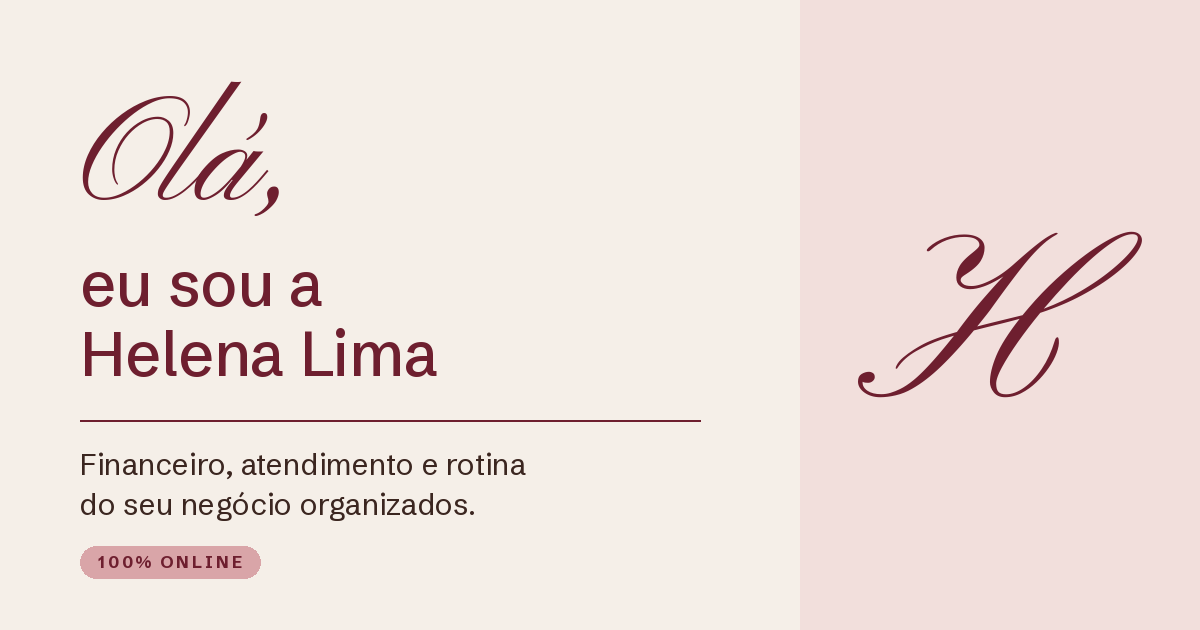
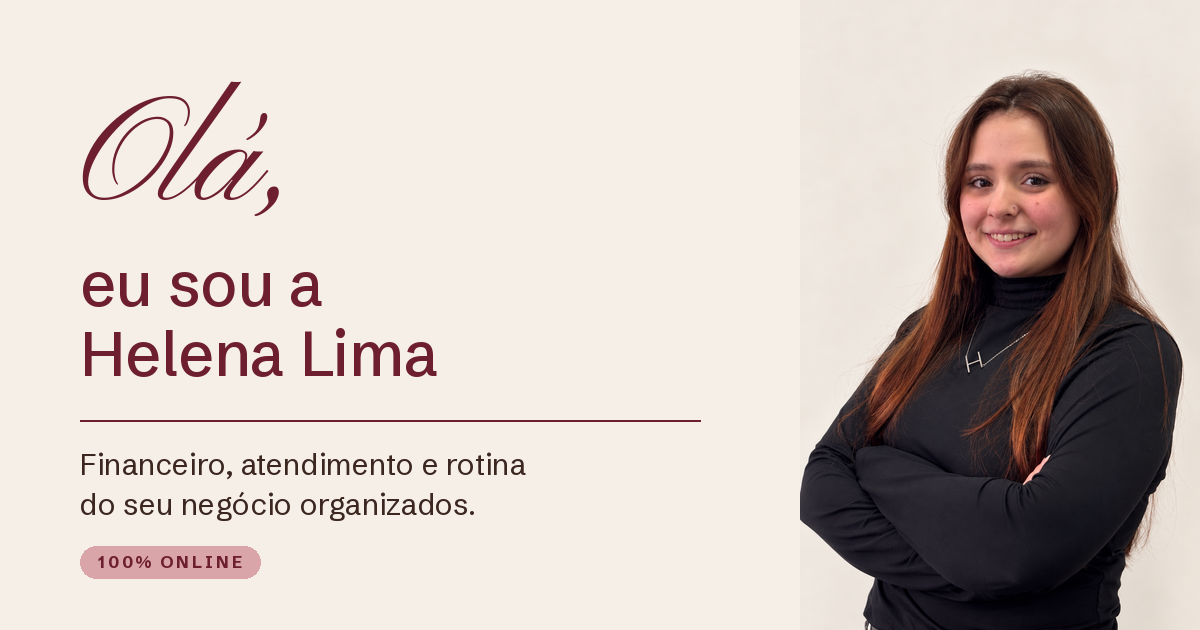
Fotos reais da Helena no hero, no Sobre e na og-image

Changed region(s): [[0.6475, 0.1206, 0.9867, 1.0]]

diff --git a/src/components/Hero.tsx b/src/components/Hero.tsx
@@ -35,12 +35,18 @@ export default function Hero() {
           </a>
         </div>
       </div>
-      <div className="md:flex-1 w-full max-w-[min(28rem,56vh)] mx-auto aspect-[4/5] bg-rosa/30 rounded-2xl flex items-center justify-center border-[1.5px] border-bordo border-dashed overflow-hidden reveal reveal-delay-1">
-        {/* Placeholder image block */}
-        <span className="text-bordo font-medium font-sans uppercase tracking-widest text-sm">
-          [foto da Helena]
-        </span>
-      </div>
+      {/* 4:5, largura total no mobile e no máximo 70vh de altura (56vh de largura). */}
+      <img
+        src="/fotos/helena-hero.webp"
+        srcSet="/fotos/helena-hero-640.webp 640w, /fotos/helena-hero.webp 941w"
+        sizes="(min-width: 1024px) 45vw, 100vw"
+        width={941}
+        height={1176}
+        alt="Helena Lima sorrindo, de braços cruzados"
+        fetchPriority="high"
+        decoding="async"
+        className="md:flex-1 md:min-w-0 w-full max-w-[min(28rem,56vh)] h-auto mx-auto aspect-[4/5] rounded-2xl object-cover reveal reveal-delay-1"
+      />
     </section>
   )
 }

diff --git a/src/components/Sobre.tsx b/src/components/Sobre.tsx
@@ -10,11 +10,15 @@ export default function Sobre() {
           className="w-full md:col-start-2 md:row-start-1 md:self-end reveal"
         />
         <div className="flex justify-center md:col-start-1 md:row-start-1 md:row-span-2 md:self-center reveal">
-          <div className="w-full max-w-[18rem] md:max-w-md aspect-square bg-rosa/30 rounded-full flex items-center justify-center border-[1.5px] border-bordo border-dashed overflow-hidden">
-            <span className="text-bordo font-medium font-sans uppercase tracking-widest text-sm">
-              [foto da Helena]
-            </span>
-          </div>
+          <img
+            src="/fotos/helena-sobre.webp"
+            width={800}
+            height={800}
+            alt="Helena Lima sorrindo"
+            loading="lazy"
+            decoding="async"
+            className="w-full max-w-[18rem] md:max-w-md h-auto aspect-square rounded-full object-cover object-center"
+          />
         </div>
         <div className="md:col-start-2 md:row-start-2 reveal reveal-delay-1">
           <div className="font-sans text-cafe text-lg space-y-4">

diff --git a/CLAUDE.md b/CLAUDE.md
@@ -26,6 +26,8 @@ Landing page de Helena Lima, gestão administrativa (financeiro, atendimento, ag
   - `NAV_LINKS`: links de navegação do rodapé, na ordem da página
   - `TESTIMONIALS`: depoimentos
 - `src/index.css`: import do Tailwind, tokens de cor/fonte e estilos globais
+- `public/`: arquivos servidos como estão (favicons, `og-image.png`)
+- `public/fotos/`: fotos da Helena (`helena-hero.webp` e `helena-hero-640.webp` no hero, `helena-sobre.webp` no Sobre)
 - `index.html`: shell do Vite; é aqui que as Google Fonts são carregadas
 - `vite.config.ts`: configuração padrão (React, Tailwind e alias `@` para `src`). O `<head>` (title, meta, Open Graph) é fixo no `index.html`, não gerado pelo Vite.
 
@@ -83,6 +85,11 @@ Estilo:
 - **Etiquetas** sempre via `Tag.tsx`. Não criar outro estilo de etiqueta.
 - **Ícones de marca** (WhatsApp, Instagram) sempre com o path oficial do Simple Icons, sem redesenhar nem trocar por ícone genérico.
 - **Botão flutuante de WhatsApp** (`WhatsAppFlutuante`): some enquanto o hero (`#inicio`), o CTA final (`#contato`) ou o rodapé estão na tela. Se mudar esses ids, atualize o componente.
+
+## Fotos
+
+- Sempre em **WebP**, dentro de `public/fotos/`.
+- Toda `<img>` sempre com `width`, `height` (dimensões reais do arquivo, pra não haver salto de layout) e `alt`.
 
 ## Fluxo de trabalho
 
